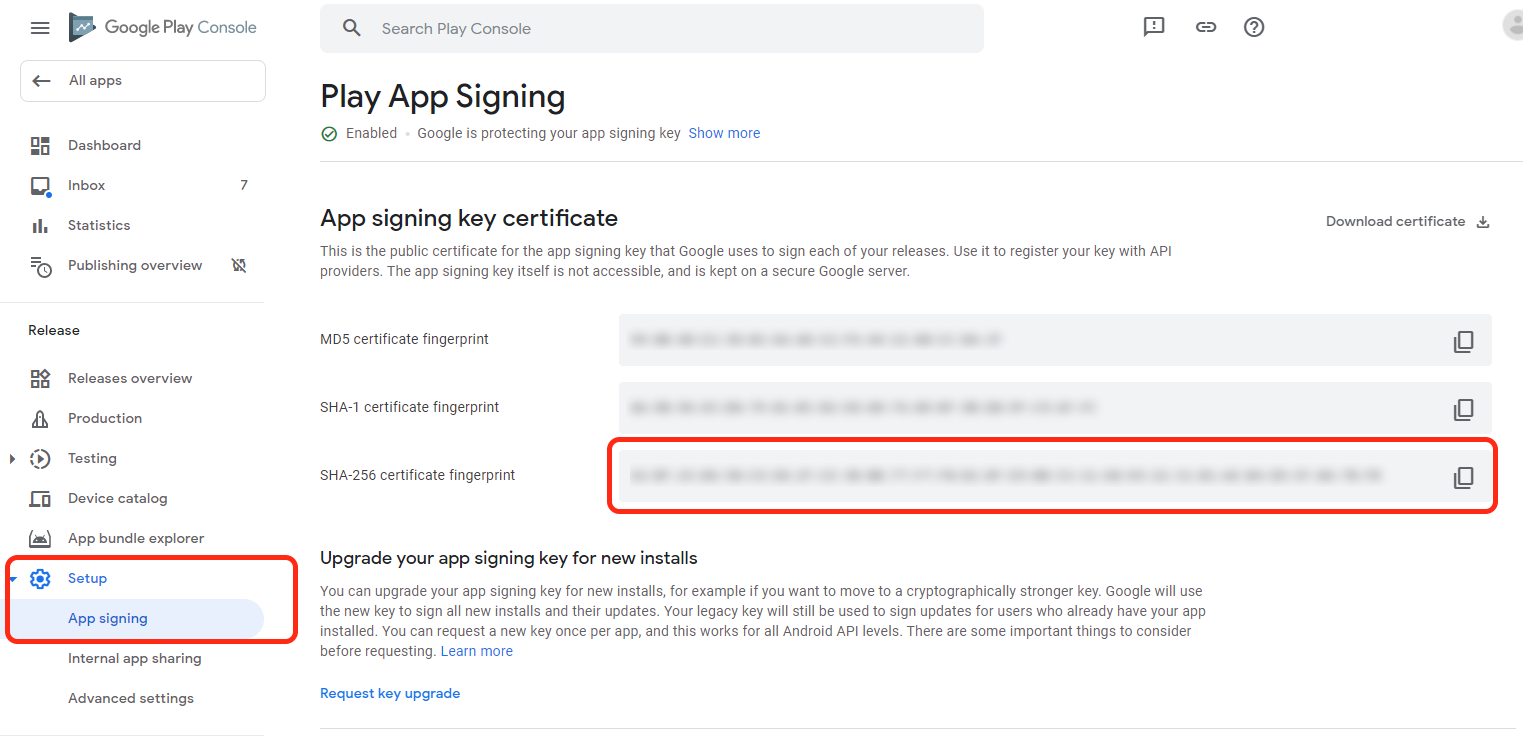
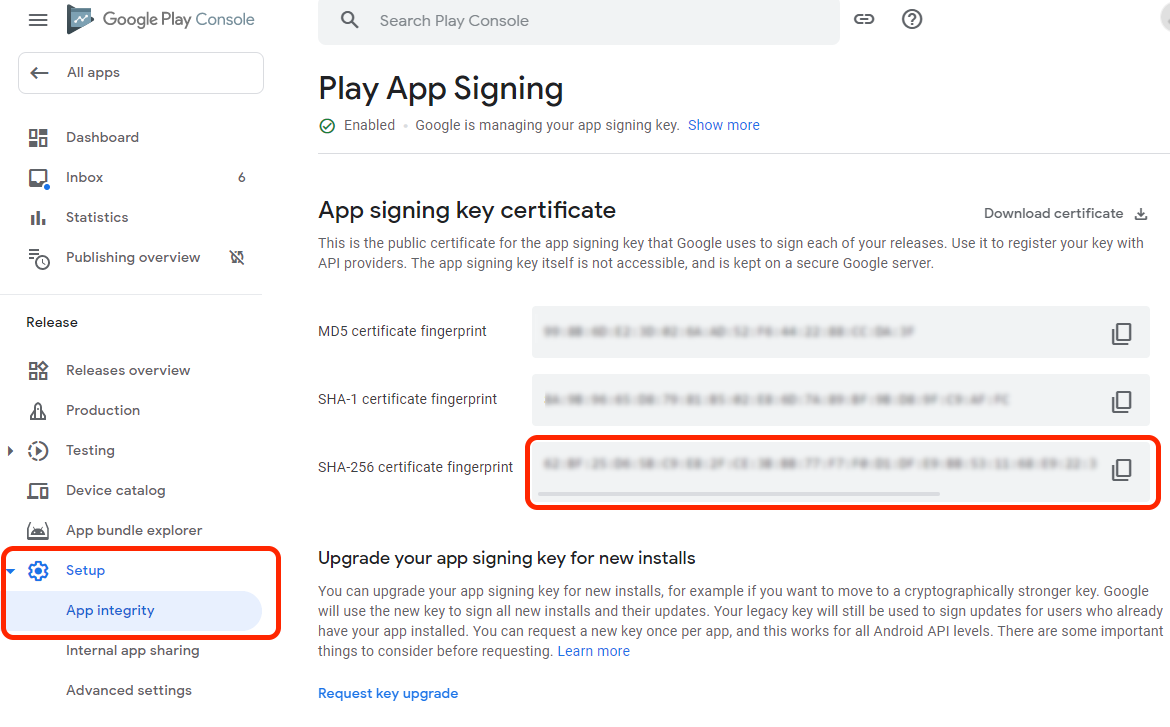
Fixed #65

diff --git a/Next-steps.md b/Next-steps.md
@@ -38,7 +38,7 @@ Once you submit your app, it will be reviewed. Once approved, your PWA will be a
 
 Once you've uploaded your `.aab` file, Google Play re-signs your app. Because of this, you'll need to update your asset links file.
 
-To update your asset links and remove the address bar from your app, login to the [Google Play Console](https://developer.android.com/distribute/console), select your app, then choose `Setup` -> `App signing`, then copy your `SHA-256 fingerprint`:
+To update your asset links and remove the address bar from your app, login to the [Google Play Console](https://developer.android.com/distribute/console), select your app, then choose `Setup` -> `App integrity`, then copy your `SHA-256 fingerprint`:
 
 <img src="/static/google-play-signing.png" width="600px" />
 
